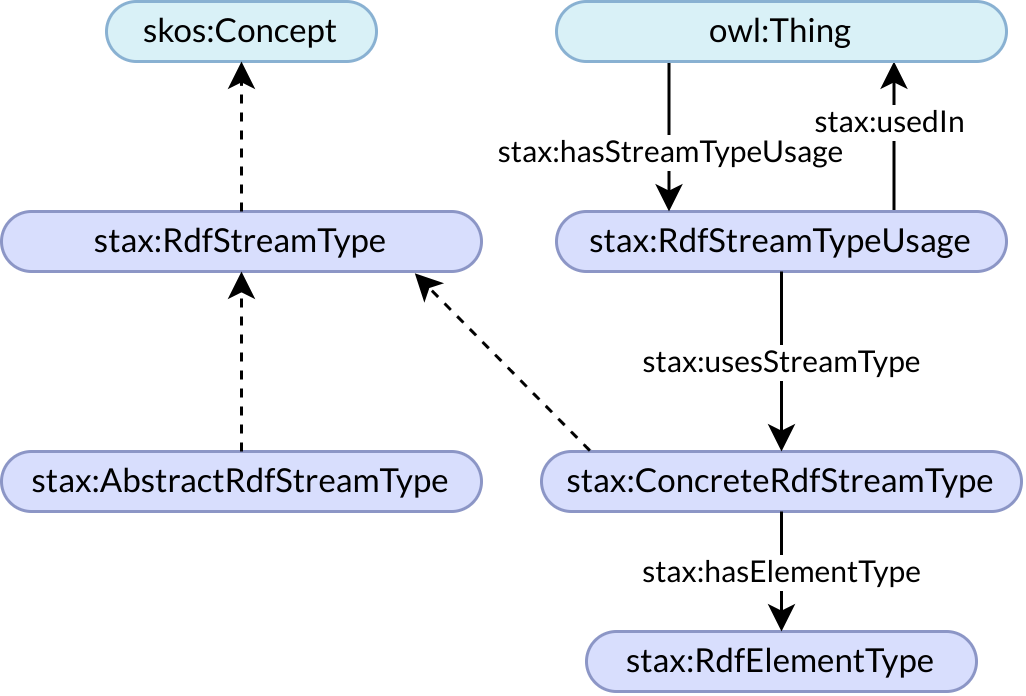
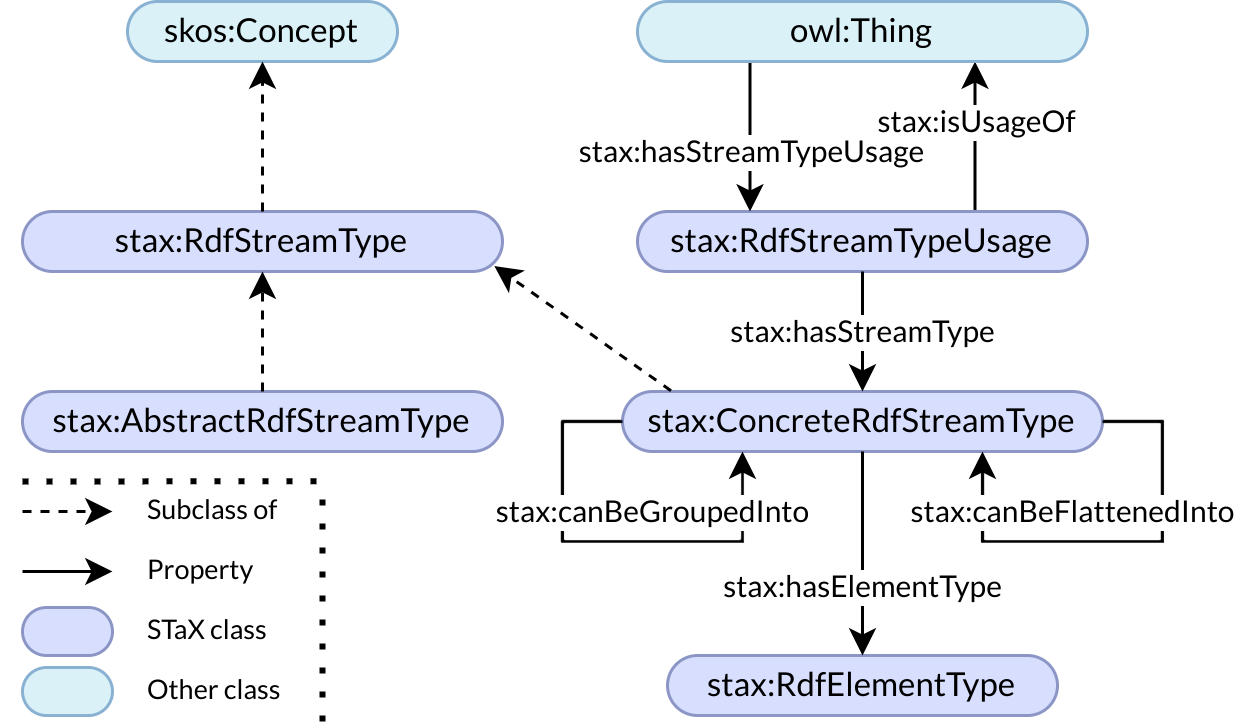
Next iteration of the ontology

diff --git a/docs/use-it.md b/docs/use-it.md
@@ -12,21 +12,23 @@ Making a statement about something's RDF stream type is very straightforward. Fo
 @prefix stax: <https://w3id.org/stax/ontology#> .
 
 _:usage a stax:RdfStreamTypeUsage ;
-    stax:usesStreamType stax:rdfGraphStream ;
-    stax:usedIn <https://example.org/some-resource> .
+    stax:hasStreamType stax:rdfGraphStream ;
+    stax:isUsageOf <https://example.org/some-resource> .
 ```
 
 It is recommended (but not required) to have one `#!turtle stax:RdfStreamTypeUsage` instance per annotated resource and per RDF stream type. This makes it easier to find all the annotations for a given resource or stream type.
 
-You can also make the statement in reverse, by annotating the resource itself:
+You can also make the statement in reverse, by annotating the resource itself. This can be especially useful when annotating RDF streams on the Web or in a dataset. For example, to annotate a `#!turtle vocals:RDFStream` from the [VoCaLS Vocabulary](http://w3id.org/rsp/vocals):
 
 ```turtle
 @prefix stax: <https://w3id.org/stax/ontology#> .
 
-<https://example.org/some-resource> stax:hasStreamTypeUsage [
-    a stax:RdfStreamTypeUsage ;
-    stax:usesStreamType stax:rdfGraphStream
-] .
+_:stream a vocals:RDFStream ;
+    # ... other properties of the stream ...
+    stax:hasStreamTypeUsage [
+        a stax:RdfStreamTypeUsage ;
+        stax:hasStreamType stax:timestampedRdfNamedGraphStream
+    ] .
 ```
 
 The `#!turtle stax:RdfStreamTypeUsage` instance is a good place to put additional information about the usage, such as a textual explanation, the source of the information, or the author of the statement. For example:
@@ -39,15 +41,15 @@ The `#!turtle stax:RdfStreamTypeUsage` instance is a good place to put additiona
 
 _:usage a stax:RdfStreamTypeUsage ;
     rdfs:comment "The authors state that for their proposed system, 'the streaming element (i.e. a single message) (...) is a set of triples'. Therefore, it uses an RDF graph stream."@en ;
-    stax:usesStreamType stax:rdfGraphStream ;
-    stax:usedIn <https://doi.org/10.1109/ICSTCC.2017.8107003> ;
+    stax:hasStreamType stax:rdfGraphStream ;
+    stax:isUsageOf <https://doi.org/10.1109/ICSTCC.2017.8107003> ;
     cito:citesAsEvidence <https://doi.org/10.1109/ICSTCC.2017.8107003> ;
     dcterms:creator <https://orcid.org/0000-0002-2543-9461> .
 ```
 
 You can use whatever properties you like, however, the following are recommended:
 
-- [CITO ontology](http://purl.org/spar/cito/) for typing the citations.
+- [CiTO ontology](http://purl.org/spar/cito) for typing the citations.
 - [DCMI Metadata Terms](http://purl.org/dc/terms/) for the statement author information.
 - `#!turtle rdfs:comment` for the textual explanation.
 - For statement creators, we recommend using [ORCID](https://orcid.org/).
